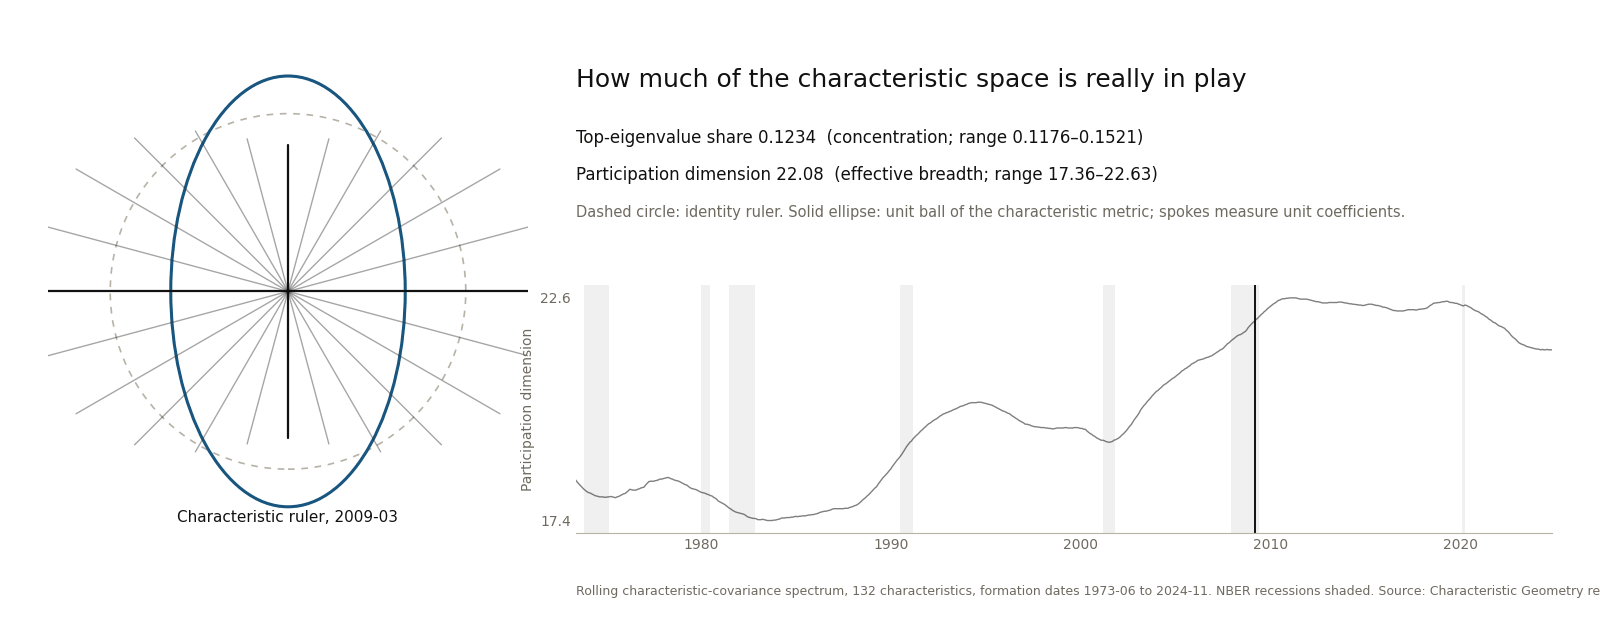
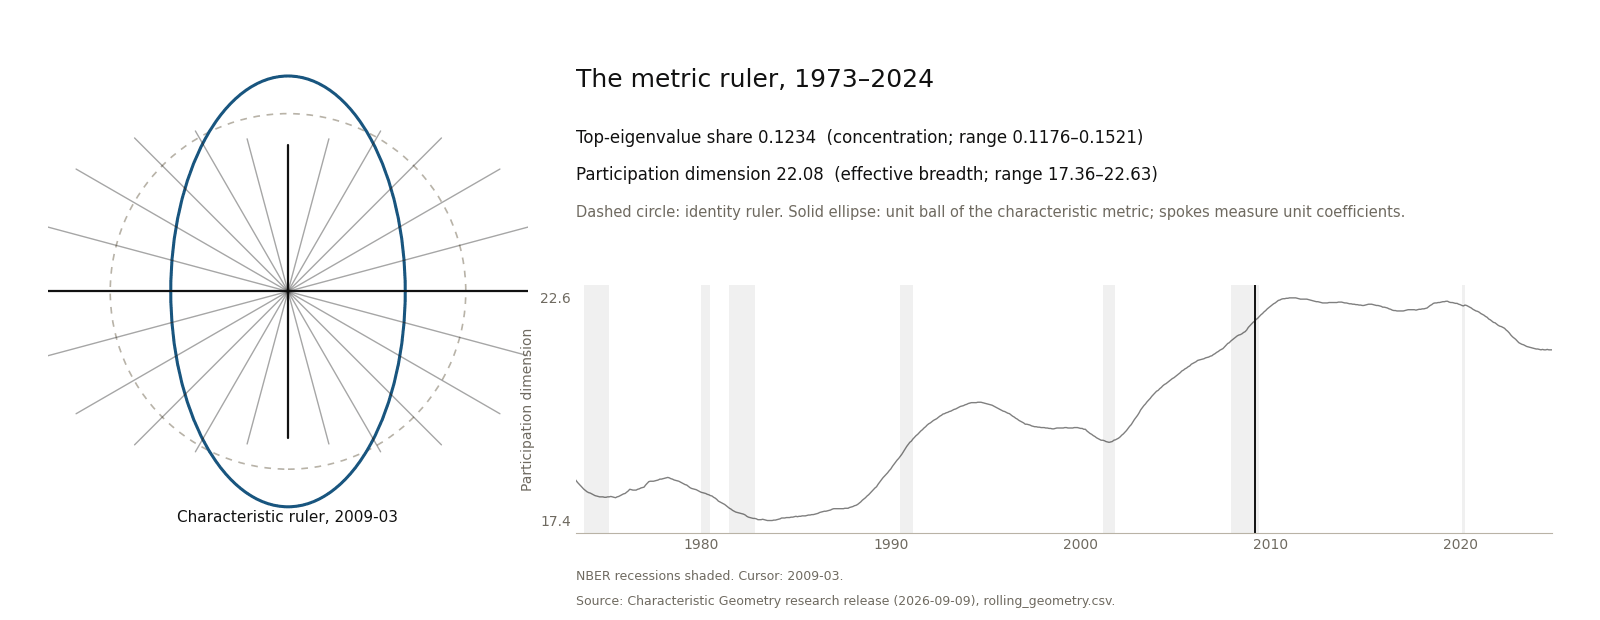
fix(pipeline): hero PNG footer inside the frame, spec figure title, extent guard
Wrap the provenance footer onto two short lines so it no longer runs off the
right edge of hero_geometry.png; replace the invented headline with the spec's
figure title "The metric ruler, 1973-2024"; make render_png raise if any text
extent leaves the 1600x620 canvas; add tests for blank outer 4 px and for the
extent guard. Regenerated PNG (47,226 B) and JSON (built_at only).

Changed region(s): [[0.3438, 0.9194, 1.0, 0.9806], [0.3438, 0.0919, 0.7812, 0.1532]]

diff --git a/pipeline/exhibits/hero_geometry.py b/pipeline/exhibits/hero_geometry.py
@@ -118,6 +118,7 @@ def render_png(payload: dict, out_png: Path) -> None:
     import matplotlib
     matplotlib.use("Agg")
     import matplotlib.pyplot as plt
+    import matplotlib.text
     from matplotlib.patches import Ellipse
 
     t = STRIP_INDEX
@@ -143,8 +144,8 @@ def render_png(payload: dict, out_png: Path) -> None:
     ax.add_patch(Ellipse((0, 0), 2.0 / lam1, 2.0 / lam2, fill=False, lw=2.2, ec=C_ELLIPSE))
     ax.text(0, -1.27, f"Characteristic ruler, {month}", ha="center", va="center", fontsize=11, color=C_INK)
 
-    # Text block (right of the ruler): the two encoded statistics.
-    fig.text(0.36, 0.86, "How much of the characteristic space is really in play", fontsize=18, color=C_INK, weight="medium")
+    # Text block (right of the ruler): the spec's figure title and the two encoded statistics.
+    fig.text(0.36, 0.86, "The metric ruler, 1973–2024", fontsize=18, color=C_INK, weight="medium")
     fig.text(0.36, 0.77,
              f"Top-eigenvalue share {payload['share'][t]:.4f}  (concentration; range "
              f"{payload['meta']['ranges']['share'][0]:.4f}–{payload['meta']['ranges']['share'][1]:.4f})",
@@ -177,8 +178,19 @@ def render_png(payload: dict, out_png: Path) -> None:
     sx.spines["bottom"].set_color(C_CIRCLE)
     sx.set_ylabel("Participation dimension", fontsize=10, color=C_MUTED)
 
-    fig.text(0.36, 0.04, "Rolling characteristic-covariance spectrum, 132 characteristics, formation dates 1973-06 to 2024-11. "
-             "NBER recessions shaded. Source: Characteristic Geometry research release (2026-09-09).", fontsize=9, color=C_MUTED)
+    # Provenance footer, two short lines so nothing runs past the right edge (the HTML caption carries the series description).
+    fig.text(0.36, 0.065, "NBER recessions shaded. Cursor: 2009-03.", fontsize=9, color=C_MUTED)
+    fig.text(0.36, 0.025, "Source: Characteristic Geometry research release (2026-09-09), rolling_geometry.csv.", fontsize=9, color=C_MUTED)
+
+    # Every text must lie inside the canvas (a clipped footer shipped once; never again).
+    fig.canvas.draw()
+    renderer = fig.canvas.get_renderer()
+    for txt in fig.findobj(matplotlib.text.Text):
+        if not txt.get_text():
+            continue
+        bb = txt.get_window_extent(renderer)
+        if bb.x0 < 0 or bb.y0 < 0 or bb.x1 > PNG_W or bb.y1 > PNG_H:
+            raise ValueError(f"hero_geometry.png: text runs outside the canvas: {txt.get_text()!r} {bb}")
 
     out_png.parent.mkdir(parents=True, exist_ok=True)
     buf = io.BytesIO()

diff --git a/pipeline/tests/test_hero_geometry.py b/pipeline/tests/test_hero_geometry.py
@@ -101,6 +101,38 @@ def test_json_budget_and_png(built):
     assert json.loads(out_json.read_text())["nber"] == NBER_PAIRS
 
 
+def test_png_nothing_clipped_at_the_edges(built):
+    """The provenance footer once ran off the right edge; no ink may touch the outer 4 px on any side."""
+    from PIL import Image
+    import numpy as np
+    _, _, out_png = built
+    with Image.open(out_png) as im:
+        a = np.asarray(im.convert("L"))
+    assert a.shape == (620, 1600)
+    assert (a[:, -4:] == 255).all(), "ink in the last 4 columns"
+    assert (a[:, :4] == 255).all(), "ink in the first 4 columns"
+    assert (a[:4, :] == 255).all() and (a[-4:, :] == 255).all(), "ink in the top/bottom 4 rows"
+
+
+def test_png_text_extents_inside_canvas(payload, tmp_path):
+    """render_png itself must refuse a text that leaves the 1600x620 canvas."""
+    hg.render_png(payload, tmp_path / "ok.png")  # normal render passes the built-in extent guard
+    import matplotlib.pyplot as plt
+    orig = plt.figure
+
+    def figure_with_overflow(*args, **kwargs):
+        fig = orig(*args, **kwargs)
+        fig.text(0.9, 0.5, "x" * 200, fontsize=9)
+        return fig
+
+    plt.figure = figure_with_overflow
+    try:
+        with pytest.raises(ValueError, match="outside the canvas"):
+            hg.render_png(payload, tmp_path / "bad.png")
+    finally:
+        plt.figure = orig
+
+
 def test_check_idempotent(built):
     base, _, _ = built
     res = subprocess.run(base + ["--check"], capture_output=True, text=True)
